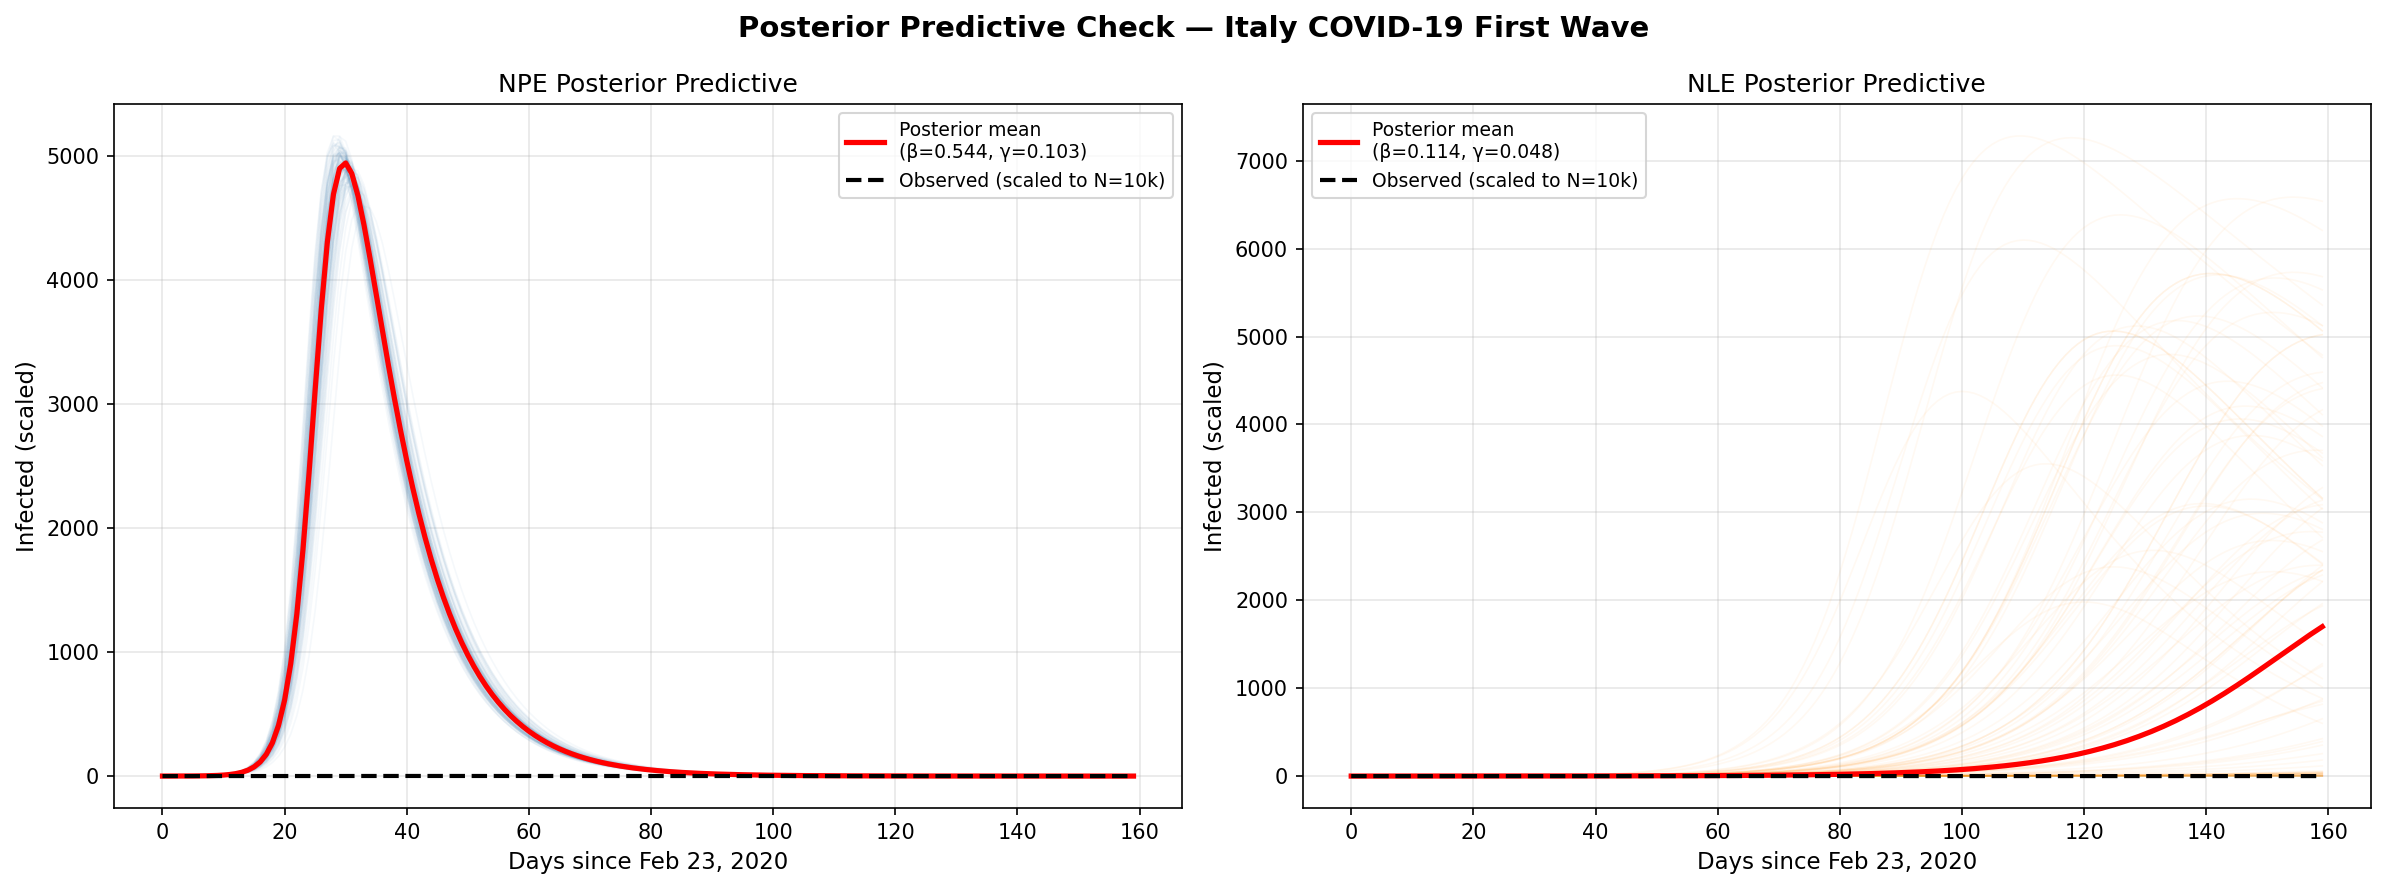
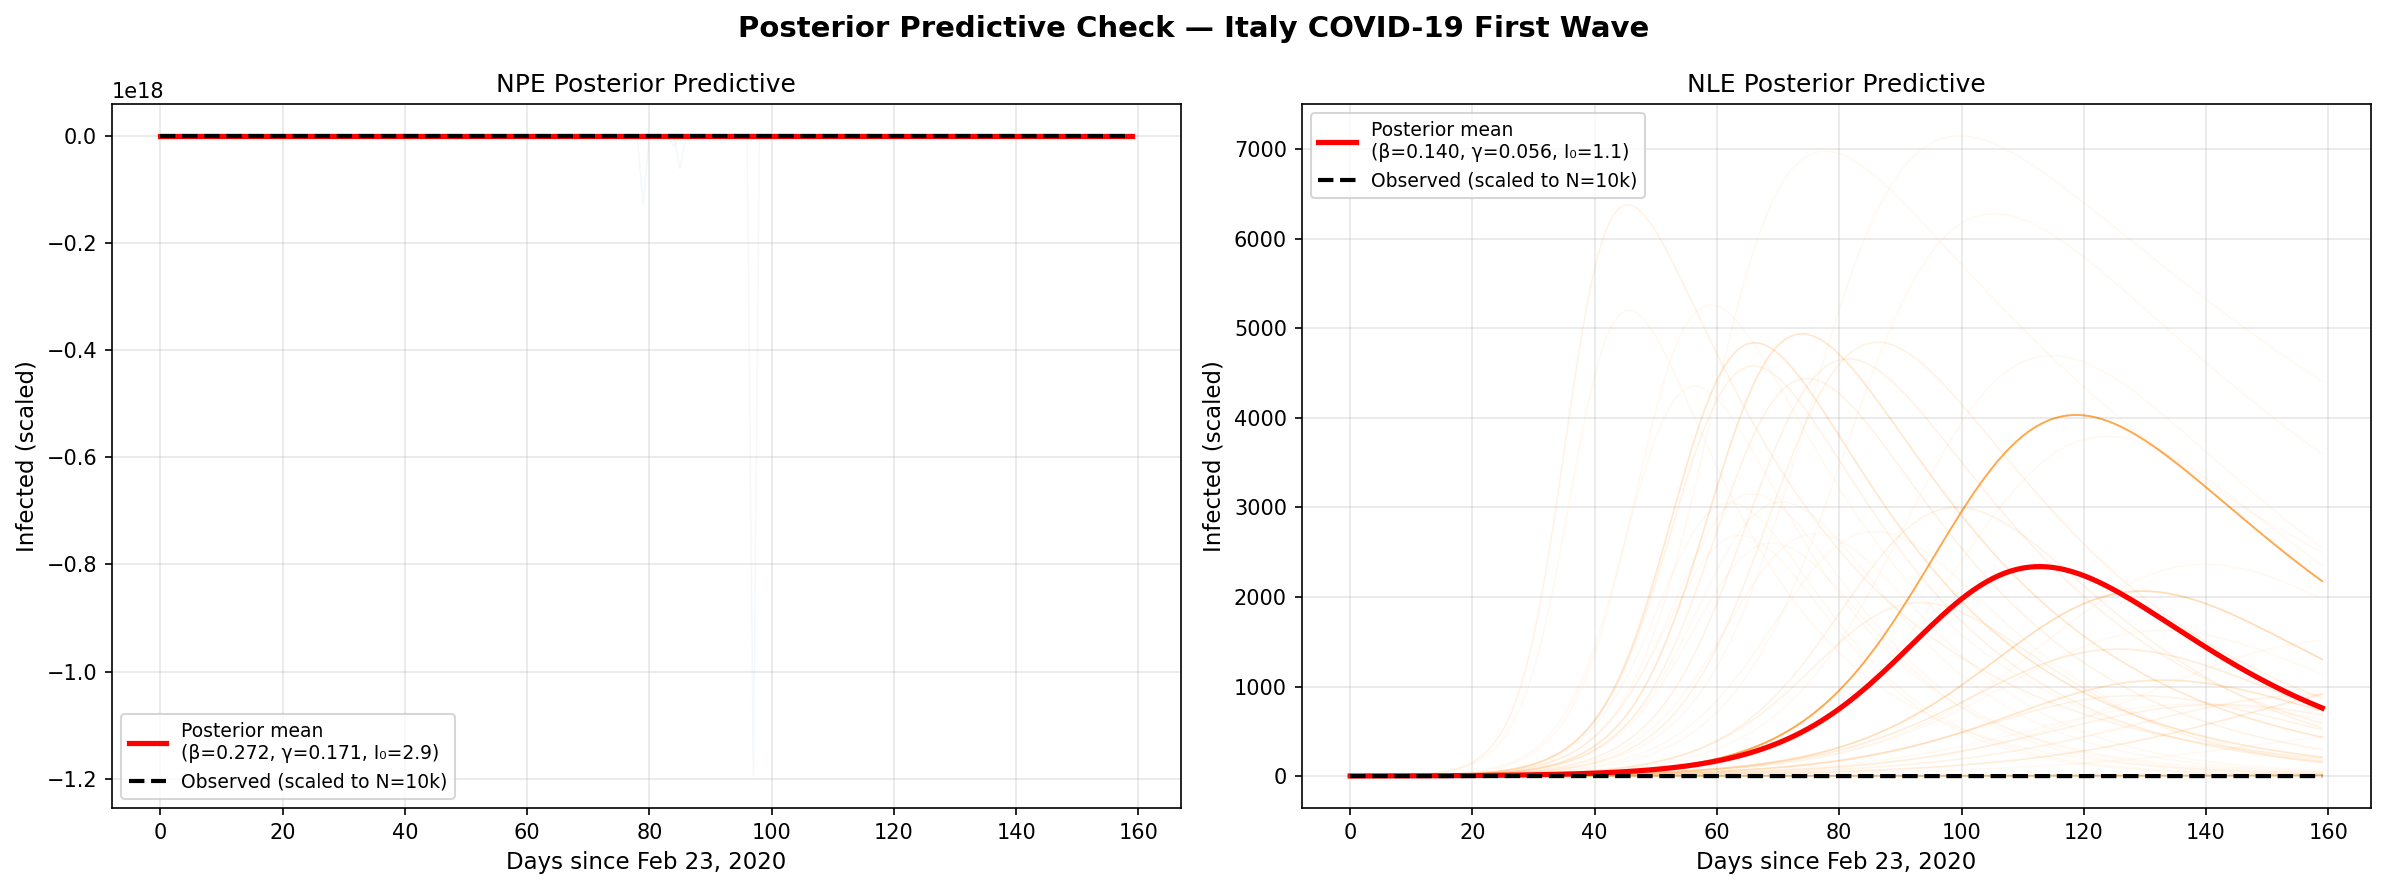
Update real data inference for 3 parameters (beta, gamma, I0)

diff --git a/04_evaluation/real_data.py b/04_evaluation/real_data.py
@@ -2,7 +2,7 @@
 04_evaluation/real_data.py
 
 Apply trained NPE and NLE models to real COVID-19 data (Italy, first wave).
-Estimates SIR parameters (beta, gamma) from real observed case counts.
+Estimates SIR parameters (beta, gamma, I0) from real observed case counts.
 
 Team: Pratik Goyal, Suryansh Chaturvedi, Mayank Choudhary
 Course: Generative Neural Networks for the Sciences
@@ -32,14 +32,15 @@ DATA_CSV      = Path("02_data/owid-covid-data.csv")
 ARTIFACTS_DIR = Path("03_methods/artifacts")
 OUT_DIR       = Path("04_evaluation/results/real_data")
 
-COUNTRY       = "Italy"
-WAVE_START    = "2020-02-23"   # first significant cases in Italy
-T             = 160            # days to extract (must match model training)
-N_POSTERIOR   = 1000           # posterior samples
+COUNTRY    = "Italy"
+WAVE_START = "2020-02-23"
+T          = 160
+N_POSTERIOR = 1000
 
-# SIR model prior bounds (must match training)
+# Prior bounds — must match training
 BETA_MIN,  BETA_MAX  = 0.10, 0.60
 GAMMA_MIN, GAMMA_MAX = 0.01, 0.10
+I0_MIN,    I0_MAX    = 1.0,  50.0
 
 SEED = 42
 
@@ -60,21 +61,16 @@ def load_italy_wave(csv_path: Path, country: str, wave_start: str, T: int) -> tu
     ].dropna().reset_index(drop=True)
 
     country_df["date"] = pd.to_datetime(country_df["date"])
-    wave_start_dt = pd.to_datetime(wave_start)
-
-    mask = country_df["date"] >= wave_start_dt
-    wave_df = country_df[mask].head(T).reset_index(drop=True)
+    wave_df = country_df[country_df["date"] >= pd.to_datetime(wave_start)].head(T).reset_index(drop=True)
 
     if len(wave_df) < T:
         raise ValueError(f"Not enough data: got {len(wave_df)} days, need {T}")
 
     real_population = float(wave_df["population"].iloc[0])
-    raw_cases = wave_df["new_cases_smoothed"].values.astype(np.float32)
-    raw_cases = np.maximum(raw_cases, 0)
+    raw_cases       = np.maximum(wave_df["new_cases_smoothed"].values.astype(np.float32), 0)
 
-    model_N = 10000.0
-    scaled_cases = raw_cases * (model_N / real_population)
-    scaled_cases = np.maximum(scaled_cases, 0)
+    model_N      = 10000.0
+    scaled_cases = np.maximum(raw_cases * (model_N / real_population), 0)
 
     print(f"  Country: {country}")
     print(f"  Wave start: {wave_start}")
@@ -91,9 +87,9 @@ def load_italy_wave(csv_path: Path, country: str, wave_start: str, T: int) -> tu
 # ============================================================================
 
 def load_npe(artifacts_dir: Path):
-    summary_net = bf.networks.SequenceNetwork(summary_dim=32)
+    summary_net   = bf.networks.SequenceNetwork(summary_dim=32)
     inference_net = bf.networks.InvertibleNetwork(
-        num_params=2,
+        num_params=3,  # beta, gamma, I0
         num_coupling_layers=4,
         coupling_settings={"dense_args": {"units": 128, "activation": "relu"}}
     )
@@ -116,7 +112,7 @@ def load_nle(artifacts_dir: Path):
         amortizer=amortizer,
         checkpoint_path=str(artifacts_dir / "nle_checkpoint")
     )
-    norm = np.load(artifacts_dir / "nle_normalization.npz")
+    norm   = np.load(artifacts_dir / "nle_normalization.npz")
     x_mean = norm["x_mean"].astype(np.float32)
     x_std  = norm["x_std"].astype(np.float32)
     return amortizer, x_mean, x_std
@@ -128,55 +124,52 @@ def load_nle(artifacts_dir: Path):
 
 def sample_npe_posterior(amortizer, x: np.ndarray, n_samples: int) -> np.ndarray:
     """
-    x shape: (T,) — single observation
-    returns: (n_samples, 2)
+    x: (T,) → returns (n_samples, 3)  [beta, gamma, I0]
     """
-    # Shape: (1, T, 1) — batch=1, time=T, features=1
-    x_3d = x[np.newaxis, :, np.newaxis].astype(np.float32)
-
-    # amortizer.sample returns shape (batch, n_samples, n_params) = (1, n_samples, 2)
-    raw = amortizer.sample({"summary_conditions": x_3d}, n_samples=n_samples)
+    x_3d    = x[np.newaxis, :, np.newaxis].astype(np.float32)  # (1, T, 1)
+    raw     = amortizer.sample({"summary_conditions": x_3d}, n_samples=n_samples)
     samples = np.array(raw)
 
-    # Squeeze batch dimension: (1, n_samples, 2) -> (n_samples, 2)
     if samples.ndim == 3 and samples.shape[0] == 1:
         samples = samples[0]
 
-    assert samples.shape == (n_samples, 2), \
-        f"Unexpected NPE samples shape: {samples.shape}, expected ({n_samples}, 2)"
+    assert samples.shape == (n_samples, 3), \
+        f"Unexpected NPE samples shape: {samples.shape}, expected ({n_samples}, 3)"
 
-    return samples  # (n_samples, 2)
+    return samples  # (n_samples, 3)
 
 
 def sample_nle_posterior(amortizer, x: np.ndarray, x_mean: np.ndarray,
                           x_std: np.ndarray, n_samples: int, seed: int) -> np.ndarray:
     """
     Importance-weighted resampling using NLE.
-    x shape: (T,) — single observation
-    returns: (n_samples, 2)
+    x: (T,) → returns (n_samples, 3)  [beta, gamma, I0]
     """
-    rng = np.random.default_rng(seed)
+    rng    = np.random.default_rng(seed)
     x_norm = ((x - x_mean) / (x_std + 1e-8)).astype(np.float32)
 
-    batch = n_samples * 20
+    batch        = n_samples * 20
     max_attempts = 10
-    result = None
+    result       = None
 
     for attempt in range(max_attempts):
         betas  = rng.uniform(BETA_MIN,  BETA_MAX,  size=batch).astype(np.float32)
         gammas = rng.uniform(GAMMA_MIN, GAMMA_MAX, size=batch).astype(np.float32)
-        theta_prop = np.column_stack([betas, gammas])  # (batch, 2)
+        i0s    = rng.uniform(I0_MIN,    I0_MAX,    size=batch).astype(np.float32)
+        theta_prop = np.column_stack([betas, gammas, i0s])  # (batch, 3)
 
-        x_rep = np.tile(x_norm, (batch, 1))  # (batch, T)
-        input_dict = {"observables": x_rep, "conditions": theta_prop}
-        log_liks = np.array(amortizer.log_likelihood(input_dict)).flatten()
+        x_rep    = np.tile(x_norm, (batch, 1))
+        log_liks = np.array(amortizer.log_likelihood({
+            "observables": x_rep,
+            "conditions":  theta_prop,
+        })).flatten()
 
         if np.any(np.isnan(log_liks)) or np.all(log_liks == log_liks[0]):
             print(f"  Warning: degenerate log-likelihoods on attempt {attempt+1}, retrying...")
             continue
 
         log_liks -= np.max(log_liks)
-        weights = np.exp(log_liks)
+        weights   = np.exp(log_liks)
         weight_sum = weights.sum()
 
         if weight_sum == 0 or np.isnan(weight_sum):
@@ -192,9 +185,10 @@ def sample_nle_posterior(amortizer, x: np.ndarray, x_mean: np.ndarray,
         print("  Warning: all attempts failed, falling back to uniform sampling")
         betas  = rng.uniform(BETA_MIN,  BETA_MAX,  size=n_samples).astype(np.float32)
         gammas = rng.uniform(GAMMA_MIN, GAMMA_MAX, size=n_samples).astype(np.float32)
-        result = np.column_stack([betas, gammas])
+        i0s    = rng.uniform(I0_MIN,    I0_MAX,    size=n_samples).astype(np.float32)
+        result = np.column_stack([betas, gammas, i0s])
 
-    return result  # (n_samples, 2)
+    return result  # (n_samples, 3)
 
 
 # ============================================================================
@@ -213,8 +207,8 @@ def run_sir(beta: float, gamma: float, N: float = 10000,
         dRdt =  gamma * I
         return dSdt, dIdt, dRdt
 
-    y0 = (N - I0, I0, 0.0)
-    t  = np.linspace(0, T - 1, T)
+    y0  = (N - I0, I0, 0.0)
+    t   = np.linspace(0, T - 1, T)
     sol = odeint(deriv, y0, t)
     return sol[:, 1]
 
@@ -225,34 +219,32 @@ def run_sir(beta: float, gamma: float, N: float = 10000,
 
 def plot_posterior_distributions(npe_samples: np.ndarray, nle_samples: np.ndarray,
                                   out_dir: Path) -> None:
-    """Plot posterior distributions of beta and gamma for NPE and NLE."""
-    fig, axes = plt.subplots(2, 2, figsize=(14, 10))
-    fig.suptitle("Posterior Distributions — Italy COVID-19 First Wave\n(NPE vs NLE)",
-                 fontsize=14, fontweight="bold")
-
-    param_names = ["β (infection rate)", "γ (recovery rate)"]
+    """Plot posterior distributions of beta, gamma, I0 for NPE and NLE."""
+    param_names = ["β (infection rate)", "γ (recovery rate)", "I₀ (initial infected)"]
     methods     = ["NPE", "NLE"]
     all_samples = [npe_samples, nle_samples]
     colors      = ["steelblue", "darkorange"]
 
+    fig, axes = plt.subplots(3, 2, figsize=(14, 14))
+    fig.suptitle("Posterior Distributions — Italy COVID-19 First Wave\n(NPE vs NLE)",
+                 fontsize=14, fontweight="bold")
+
     for j, param in enumerate(param_names):
         for m, (method, samples, color) in enumerate(zip(methods, all_samples, colors)):
-            ax = axes[j][m]
-            ax.hist(samples[:, j], bins=40, color=color, alpha=0.8,
-                    edgecolor="white", density=True)
-
+            ax         = axes[j][m]
             mean_val   = samples[:, j].mean()
             median_val = np.median(samples[:, j])
             ci_low     = np.percentile(samples[:, j], 5)
             ci_high    = np.percentile(samples[:, j], 95)
 
+            ax.hist(samples[:, j], bins=40, color=color, alpha=0.8,
+                    edgecolor="white", density=True)
             ax.axvline(mean_val,   color="red",   linestyle="--", linewidth=2,
                        label=f"Mean: {mean_val:.4f}")
             ax.axvline(median_val, color="black", linestyle=":",  linewidth=2,
                        label=f"Median: {median_val:.4f}")
             ax.axvspan(ci_low, ci_high, alpha=0.15, color=color,
                        label=f"90% CI: [{ci_low:.4f}, {ci_high:.4f}]")
-
             ax.set_xlabel(param, fontsize=11)
             ax.set_ylabel("Density", fontsize=11)
             ax.set_title(f"{method} — {param}", fontsize=12)
@@ -268,7 +260,9 @@ def plot_posterior_distributions(npe_samples: np.ndarray, nle_samples: np.ndarra
 
 def plot_posterior_predictive(scaled_cases: np.ndarray, npe_samples: np.ndarray,
                                nle_samples: np.ndarray, out_dir: Path) -> None:
-    """Overlay SIR trajectories from posterior samples on real observed data."""
+    """Overlay SIR trajectories from posterior samples on real observed data.
+    Uses inferred I0 from each posterior sample instead of a fixed value.
+    """
     fig, axes = plt.subplots(1, 2, figsize=(16, 6))
     fig.suptitle("Posterior Predictive Check — Italy COVID-19 First Wave",
                  fontsize=14, fontweight="bold")
@@ -277,25 +271,25 @@ def plot_posterior_predictive(scaled_cases: np.ndarray, npe_samples: np.ndarray,
     all_samples = [npe_samples, nle_samples]
     colors      = ["steelblue", "darkorange"]
     t_axis      = np.arange(len(scaled_cases))
-    I0          = max(float(scaled_cases[0]), 0.1)
 
     for m, (method, samples, color) in enumerate(zip(methods, all_samples, colors)):
-        ax = axes[m]
-
+        ax     = axes[m]
         n_plot = min(100, len(samples))
         idx    = np.random.choice(len(samples), size=n_plot, replace=False)
 
         for i in idx:
             beta_i  = float(samples[i, 0])
             gamma_i = float(samples[i, 1])
-            traj = run_sir(beta_i, gamma_i, N=10000, I0=I0, T=len(scaled_cases))
+            i0_i    = float(samples[i, 2])  # use inferred I0
+            traj = run_sir(beta_i, gamma_i, N=10000, I0=i0_i, T=len(scaled_cases))
             ax.plot(t_axis, traj, color=color, alpha=0.05, linewidth=0.8)
 
         beta_mean  = float(samples[:, 0].mean())
         gamma_mean = float(samples[:, 1].mean())
-        mean_traj  = run_sir(beta_mean, gamma_mean, N=10000, I0=I0, T=len(scaled_cases))
+        i0_mean    = float(samples[:, 2].mean())
+        mean_traj  = run_sir(beta_mean, gamma_mean, N=10000, I0=i0_mean, T=len(scaled_cases))
         ax.plot(t_axis, mean_traj, color="red", linewidth=2.5,
-                label=f"Posterior mean\n(β={beta_mean:.3f}, γ={gamma_mean:.3f})")
+                label=f"Posterior mean\n(β={beta_mean:.3f}, γ={gamma_mean:.3f}, I₀={i0_mean:.1f})")
 
         ax.plot(t_axis, scaled_cases, color="black", linewidth=2,
                 linestyle="--", label="Observed (scaled to N=10k)", zorder=5)
@@ -316,11 +310,11 @@ def plot_posterior_predictive(scaled_cases: np.ndarray, npe_samples: np.ndarray,
 def plot_npe_vs_nle_comparison(npe_samples: np.ndarray, nle_samples: np.ndarray,
                                 out_dir: Path) -> None:
     """Overlay NPE and NLE posteriors on same axes for direct comparison."""
-    fig, axes = plt.subplots(1, 2, figsize=(14, 5))
+    param_names = ["β (infection rate)", "γ (recovery rate)", "I₀ (initial infected)"]
+
+    fig, axes = plt.subplots(1, 3, figsize=(18, 5))
     fig.suptitle("NPE vs NLE Posterior Comparison — Italy COVID-19 First Wave",
                  fontsize=13, fontweight="bold")
-
-    param_names = ["β (infection rate)", "γ (recovery rate)"]
 
     for j, param in enumerate(param_names):
         ax = axes[j]
@@ -328,12 +322,10 @@ def plot_npe_vs_nle_comparison(npe_samples: np.ndarray, nle_samples: np.ndarray,
                 density=True, edgecolor="white", label="NPE")
         ax.hist(nle_samples[:, j], bins=40, color="darkorange", alpha=0.6,
                 density=True, edgecolor="white", label="NLE")
-        ax.axvline(npe_samples[:, j].mean(), color="steelblue",
-                   linestyle="--", linewidth=2,
-                   label=f"NPE mean: {npe_samples[:, j].mean():.4f}")
-        ax.axvline(nle_samples[:, j].mean(), color="darkorange",
-                   linestyle="--", linewidth=2,
-                   label=f"NLE mean: {nle_samples[:, j].mean():.4f}")
+        ax.axvline(npe_samples[:, j].mean(), color="steelblue", linestyle="--",
+                   linewidth=2, label=f"NPE mean: {npe_samples[:, j].mean():.4f}")
+        ax.axvline(nle_samples[:, j].mean(), color="darkorange", linestyle="--",
+                   linewidth=2, label=f"NLE mean: {nle_samples[:, j].mean():.4f}")
         ax.set_xlabel(param, fontsize=11)
         ax.set_ylabel("Density", fontsize=11)
         ax.set_title(param, fontsize=12)
@@ -358,13 +350,12 @@ def main():
 
     print("=" * 70)
     print("REAL DATA INFERENCE: Italy COVID-19 First Wave")
+    print("Parameters: beta, gamma, I0")
     print("=" * 70)
 
-    # ── Load real data ───────────────────────────────────────────────────────
     print(f"\nLoading {COUNTRY} COVID-19 data...")
     scaled_cases, real_pop = load_italy_wave(DATA_CSV, COUNTRY, WAVE_START, T)
 
-    # ── Load models ──────────────────────────────────────────────────────────
     print("\nLoading trained models...")
     print("  Loading NPE...")
     npe_amortizer = load_npe(ARTIFACTS_DIR)
@@ -374,7 +365,6 @@ def main():
     nle_amortizer, x_mean, x_std = load_nle(ARTIFACTS_DIR)
     print("  NLE loaded successfully")
 
-    # ── Sample posteriors ────────────────────────────────────────────────────
     print(f"\nSampling NPE posterior ({N_POSTERIOR} samples)...")
     npe_samples = sample_npe_posterior(npe_amortizer, scaled_cases, N_POSTERIOR)
     print(f"  NPE samples shape: {npe_samples.shape}")
@@ -385,7 +375,7 @@ def main():
     )
     print(f"  NLE samples shape: {nle_samples.shape}")
 
-    # ── Print results ────────────────────────────────────────────────────────
+    # ── Print results ─────────────────────────────────────────────────────────
     print("\n" + "=" * 70)
     print("INFERRED PARAMETERS — Italy COVID-19 First Wave")
     print("=" * 70)
@@ -393,13 +383,13 @@ def main():
           f"{'NLE Mean':>12} {'NLE 90% CI':>22}")
     print("-" * 90)
 
-    for j, param in enumerate(["beta", "gamma"]):
-        npe_mean = npe_samples[:, j].mean()
-        npe_lo   = np.percentile(npe_samples[:, j], 5)
-        npe_hi   = np.percentile(npe_samples[:, j], 95)
-        nle_mean = nle_samples[:, j].mean()
-        nle_lo   = np.percentile(nle_samples[:, j], 5)
-        nle_hi   = np.percentile(nle_samples[:, j], 95)
+    for j, param in enumerate(["beta", "gamma", "I0"]):
+        npe_mean = float(npe_samples[:, j].mean())
+        npe_lo   = float(np.percentile(npe_samples[:, j], 5))
+        npe_hi   = float(np.percentile(npe_samples[:, j], 95))
+        nle_mean = float(nle_samples[:, j].mean())
+        nle_lo   = float(np.percentile(nle_samples[:, j], 5))
+        nle_hi   = float(np.percentile(nle_samples[:, j], 95))
         print(f"{param:<20} {npe_mean:>12.4f} [{npe_lo:.4f}, {npe_hi:.4f}]"
               f" {nle_mean:>12.4f} [{nle_lo:.4f}, {nle_hi:.4f}]")
 
@@ -411,7 +401,7 @@ def main():
           f"[{np.percentile(nle_R0,5):.2f}, {np.percentile(nle_R0,95):.2f}]")
     print("=" * 70)
 
-    # ── Save JSON ────────────────────────────────────────────────────────────
+    # ── Save JSON ─────────────────────────────────────────────────────────────
     results = {
         "country": COUNTRY,
         "wave_start": WAVE_START,
@@ -424,6 +414,9 @@ def main():
             "gamma_mean": float(npe_samples[:, 1].mean()),
             "gamma_ci90": [float(np.percentile(npe_samples[:, 1], 5)),
                            float(np.percentile(npe_samples[:, 1], 95))],
+            "I0_mean":    float(npe_samples[:, 2].mean()),
+            "I0_ci90":    [float(np.percentile(npe_samples[:, 2], 5)),
+                           float(np.percentile(npe_samples[:, 2], 95))],
             "R0_mean":    float(npe_R0.mean()),
             "R0_ci90":    [float(np.percentile(npe_R0, 5)),
                            float(np.percentile(npe_R0, 95))],
@@ -435,6 +428,9 @@ def main():
             "gamma_mean": float(nle_samples[:, 1].mean()),
             "gamma_ci90": [float(np.percentile(nle_samples[:, 1], 5)),
                            float(np.percentile(nle_samples[:, 1], 95))],
+            "I0_mean":    float(nle_samples[:, 2].mean()),
+            "I0_ci90":    [float(np.percentile(nle_samples[:, 2], 2)),
+                           float(np.percentile(nle_samples[:, 2], 95))],
             "R0_mean":    float(nle_R0.mean()),
             "R0_ci90":    [float(np.percentile(nle_R0, 5)),
                            float(np.percentile(nle_R0, 95))],
@@ -446,7 +442,6 @@ def main():
         json.dump(results, f, indent=2)
     print(f"\n  Results saved to: {results_path}")
 
-    # ── Generate plots ───────────────────────────────────────────────────────
     print("\nGenerating plots...")
     plot_posterior_distributions(npe_samples, nle_samples, OUT_DIR)
     plot_posterior_predictive(scaled_cases, npe_samples, nle_samples, OUT_DIR)
